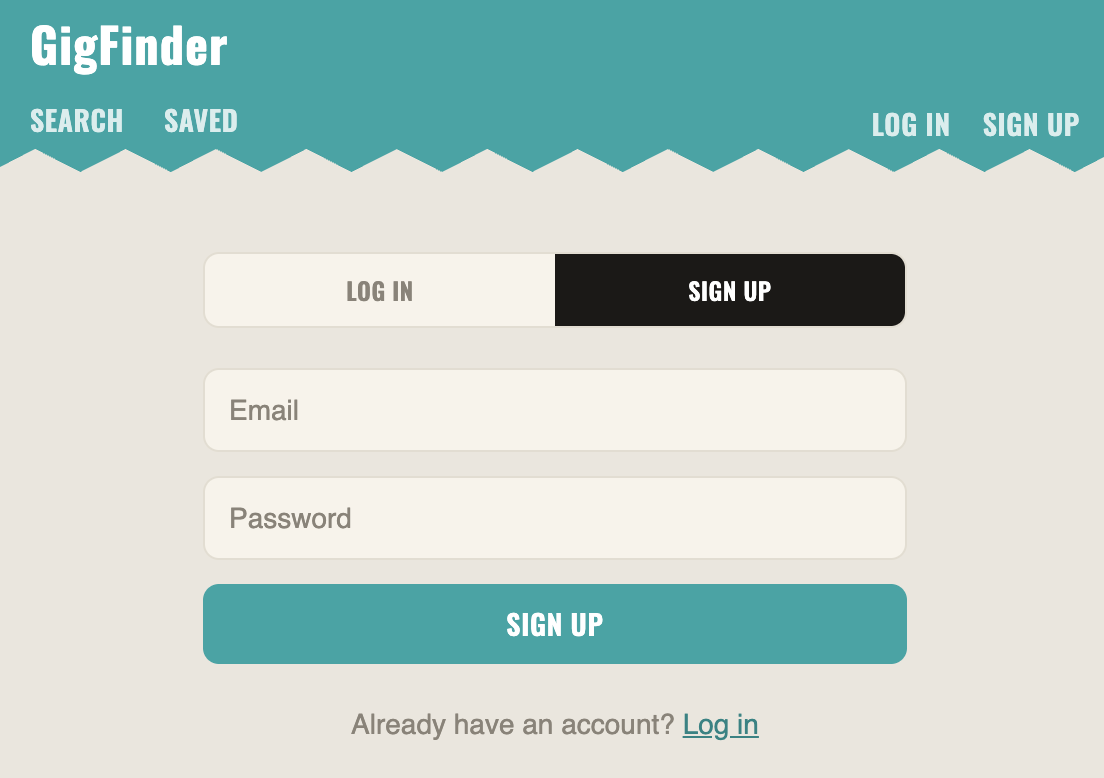
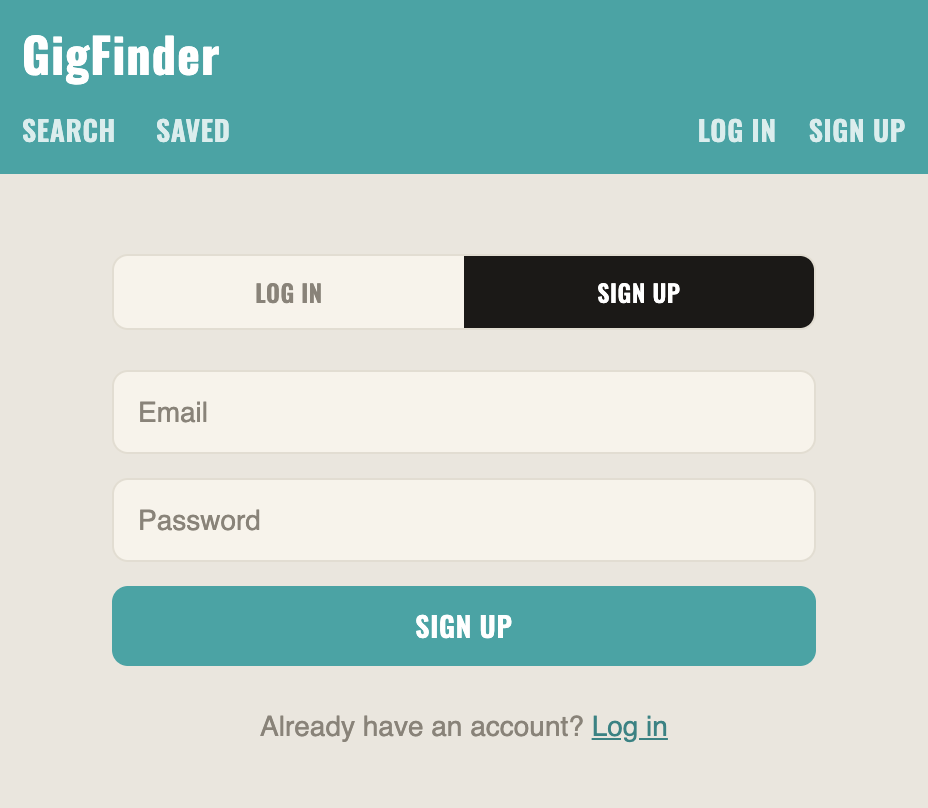
remove chevron on header in UI

diff --git a/frontend/src/App.tsx b/frontend/src/App.tsx
@@ -8,13 +8,7 @@ import SignupPage from './pages/SignupPage';
 function Nav() {
 	const { user, signOut } = useAuth();
 	return (
-		<header
-			className='bg-teal px-5 pt-4 pb-3'
-			style={{
-				clipPath:
-					'polygon(0 0,100% 0,100% 88%,96% 100%,92% 88%,88% 100%,84% 88%,80% 100%,76% 88%,72% 100%,68% 88%,64% 100%,60% 88%,56% 100%,52% 88%,48% 100%,44% 88%,40% 100%,36% 88%,32% 100%,28% 88%,24% 100%,20% 88%,16% 100%,12% 88%,8% 100%,4% 88%,0 100%)',
-			}}
-		>
+		<header className='bg-teal px-5 pt-4 pb-3'>
 			<div className='max-w-2xl mx-auto'>
 				<div className='flex items-baseline justify-between'>
 					<span className='font-display font-bold text-2xl tracking-wide text-white'>
@@ -22,10 +16,10 @@ function Nav() {
 					</span>
 				</div>
 				<nav className='flex items-center gap-5 mt-3 font-display text-sm font-semibold uppercase tracking-wide'>
-					<Link to='/' className='text-white/80 hover:text-white pb-1'>
+					<Link to='/' className='text-white/80 hover:text-white'>
 						Search
 					</Link>
-					<Link to='/saved' className='text-white/80 hover:text-white pb-1'>
+					<Link to='/saved' className='text-white/80 hover:text-white'>
 						Saved
 					</Link>
 					<div className='ml-auto flex gap-4'>
@@ -33,7 +27,7 @@ function Nav() {
 							<button
 								type='button'
 								onClick={signOut}
-								className='text-white/80 hover:text-white'
+								className='text-white/80 hover:text-white uppercase'
 							>
 								Log out
 							</button>
